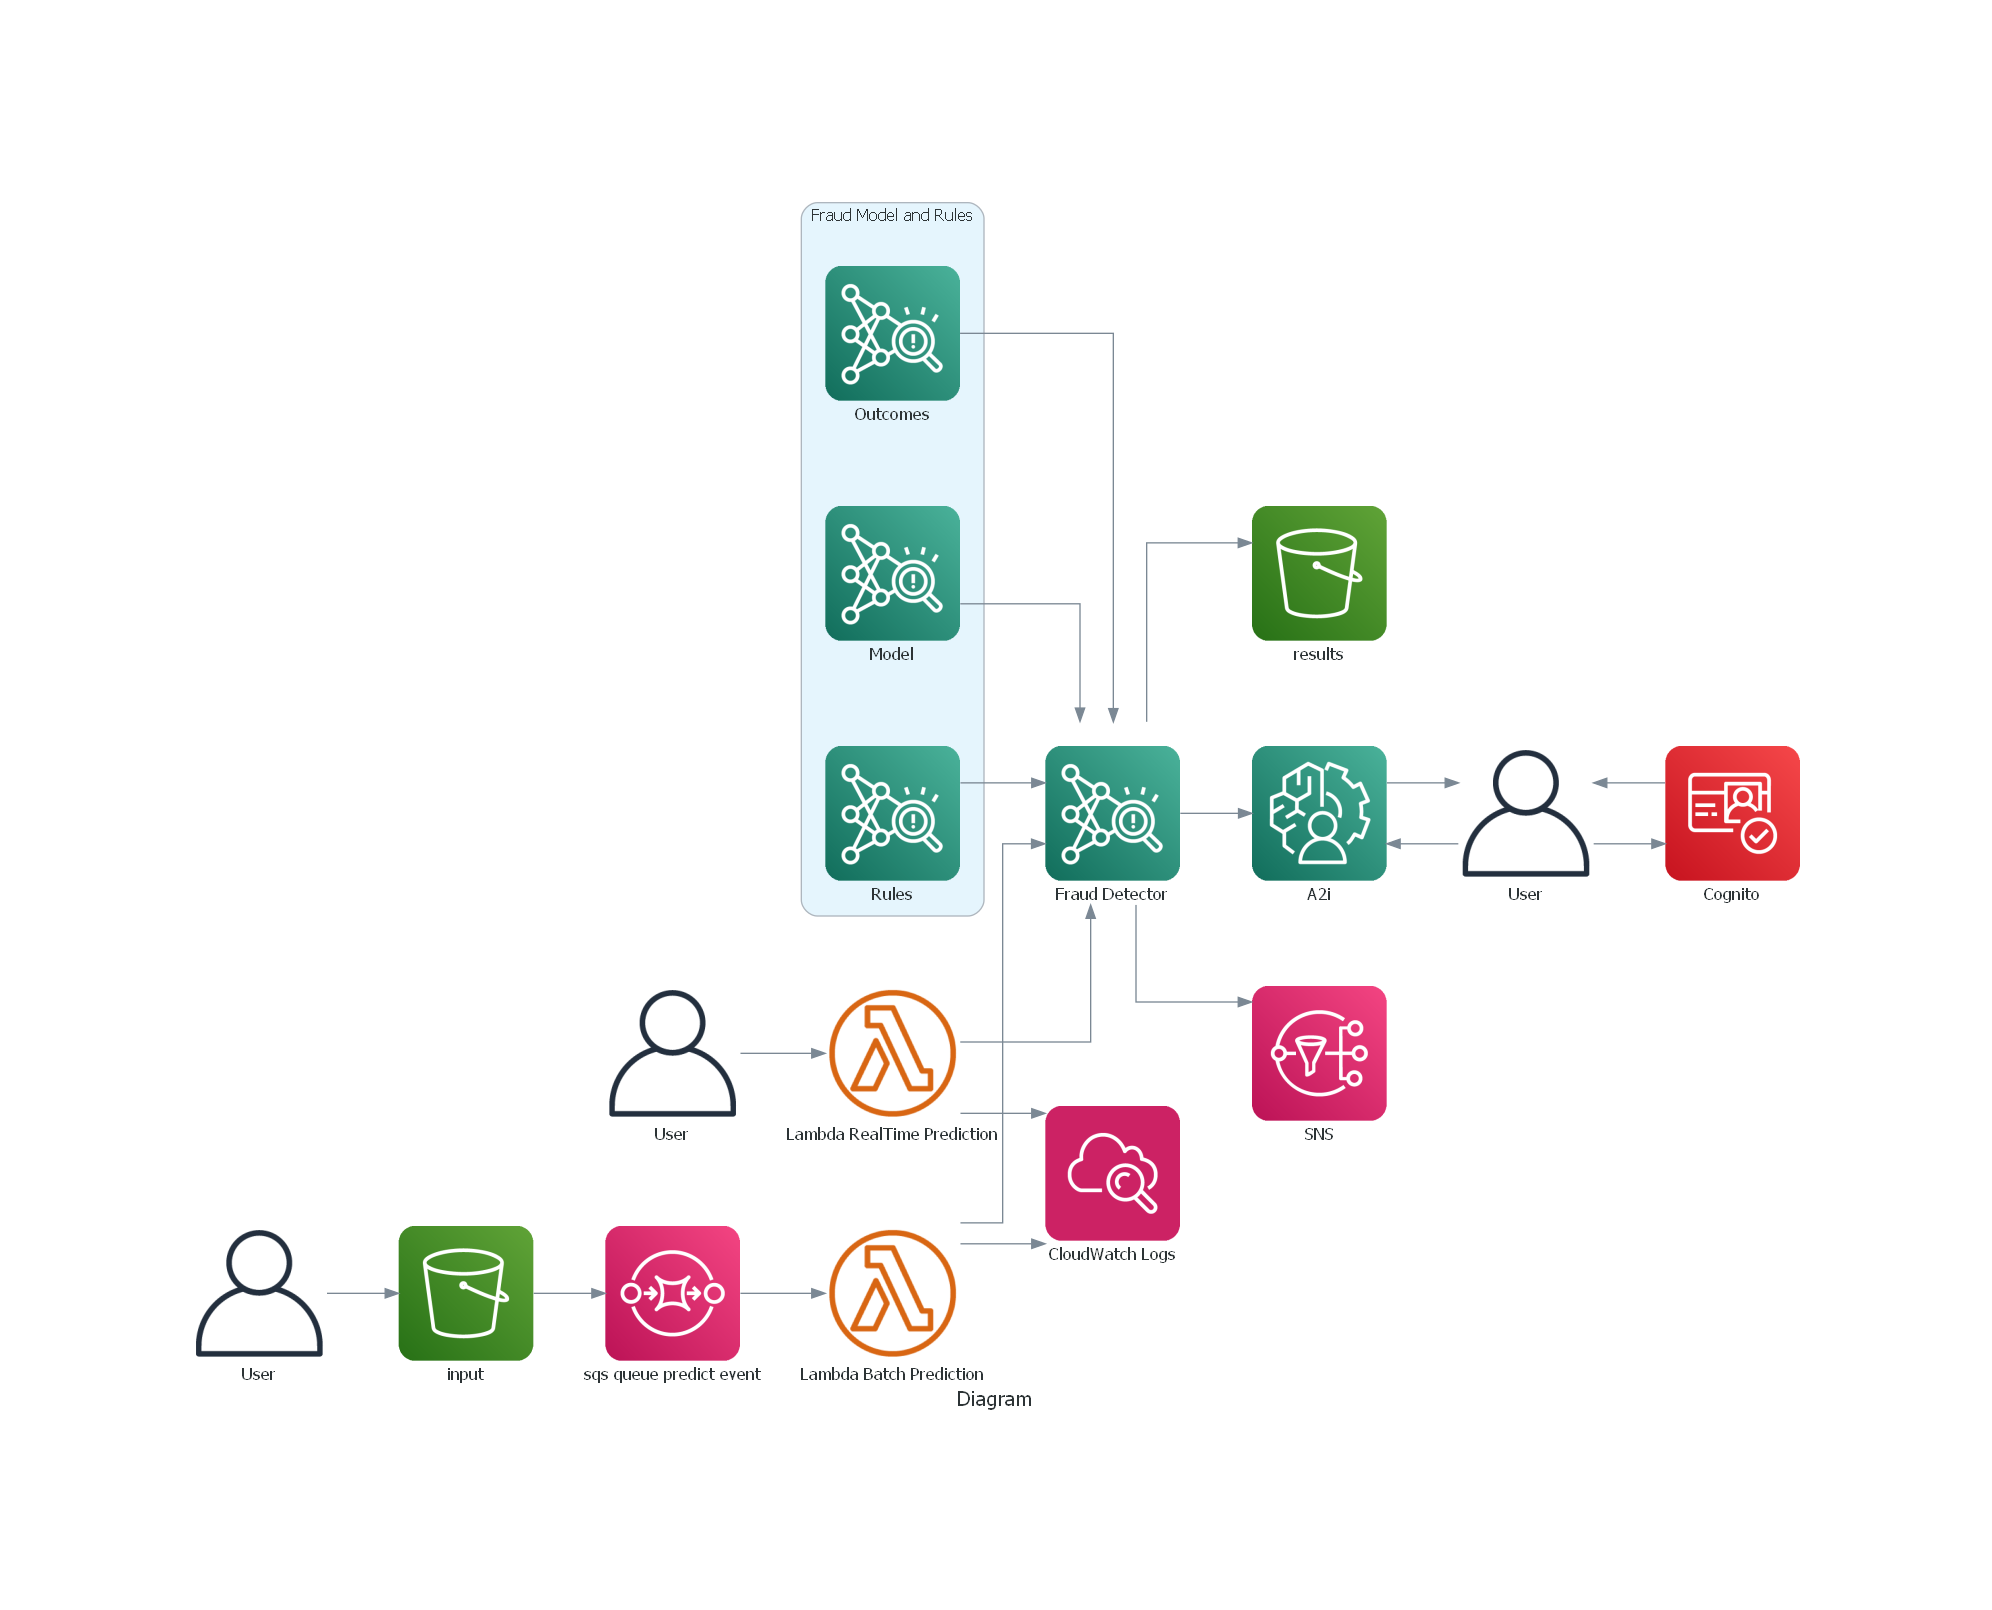
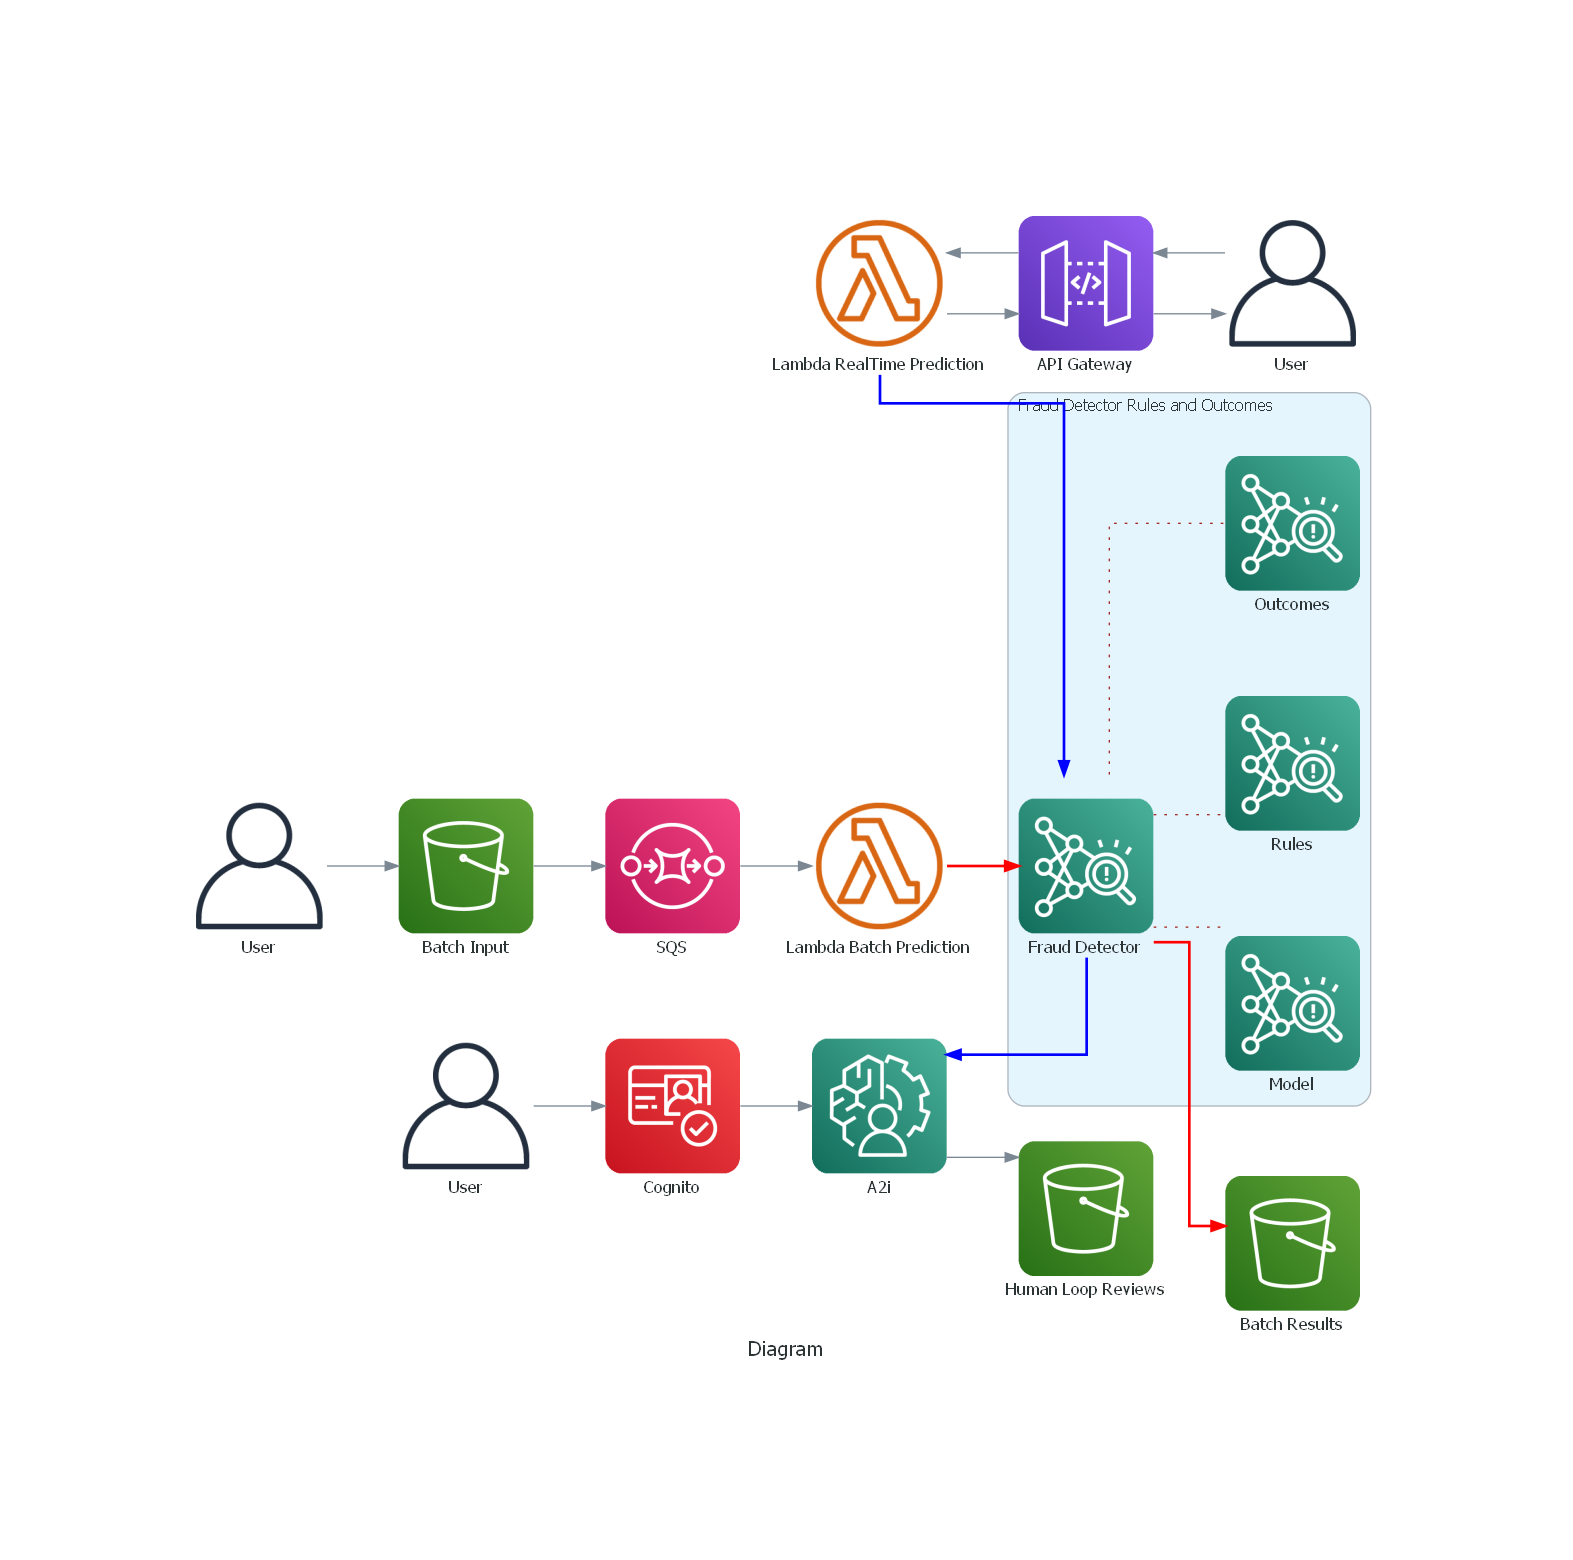
api gateway and lambda predict fixes

diff --git a/augmented_ai/fraud/constants.py b/augmented_ai/fraud/constants.py
@@ -10,16 +10,24 @@ fraud_template = """<script src="https://assets.crowd.aws/crowd-html-elements.js
           header="Select the most relevant category"
       >
       <classification-target>
-        <h3><strong>Risk Score (out of 1000): </strong><span style="color: #ff9900;">{{ task.input.score.sample_fraud_detection_insightscore }}</span></h3>
+        <h3><strong>Risk Score (out of 1000): </strong><span style="color: #ff9900;">{{ task.input.score.fraud_model_insightscore }}</span></h3>
         <hr>
         <h3> Claim Details </h3>
-        <p style="padding-left: 50px;"><strong>Email Address   :  </strong>{{ task.input.taskObject.email_address }}</p>
-        <p style="padding-left: 50px;"><strong>Billing Address :  </strong>{{ task.input.taskObject.billing_address }}</p>
-        <p style="padding-left: 50px;"><strong>Billing State   :  </strong>{{ task.input.taskObject.billing_state }}</p>
-        <p style="padding-left: 50px;"><strong>Billing Zip     :  </strong>{{ task.input.taskObject.billing_postal }}</p>
-        <p style="padding-left: 50px;"><strong>Originating IP  :  </strong>{{ task.input.taskObject.ip_address }}</p>
-        <p style="padding-left: 50px;"><strong>Phone Number    :  </strong>{{ task.input.taskObject.phone_number }}</p>
-        <p style="padding-left: 50px;"><strong>User Agent      :  </strong>{{ task.input.taskObject.user_agent }}</p>
+        <p style="padding-left: 50px;"><strong>Timestamp       :  </strong>{{ task.input.taskObject.EVENT_TIMESTAMP }}</p>
+        <p style="padding-left: 50px;"><strong>Transaction No. :  </strong>{{ task.input.taskObject.variables.trans_num }}</p>
+        <p style="padding-left: 50px;"><strong>Amount          :  </strong>{{ task.input.taskObject.variables.amt }}</p>
+        <p style="padding-left: 50px;"><strong>Zip Code        :  </strong>{{ task.input.taskObject.variables.zip }}</p>
+        <p style="padding-left: 50px;"><strong>City            :  </strong>{{ task.input.taskObject.variables.city }}</p>
+        <p style="padding-left: 50px;"><strong>First Name      :  </strong>{{ task.input.taskObject.variables.first }}</p>
+        <p style="padding-left: 50px;"><strong>Job Title       :  </strong>{{ task.input.taskObject.variables.job }}</p>
+        <p style="padding-left: 50px;"><strong>Street          :  </strong>{{ task.input.taskObject.variables.street }}</p>
+        <p style="padding-left: 50px;"><strong>Category        :  </strong>{{ task.input.taskObject.variables.category }}</p>
+        <p style="padding-left: 50px;"><strong>City Population :  </strong>{{ task.input.taskObject.variables.city_pop }}</p>
+        <p style="padding-left: 50px;"><strong>Gender          :  </strong>{{ task.input.taskObject.variables.gender }}</p>
+        <p style="padding-left: 50px;"><strong>Credit Card No. :  </strong>{{ task.input.taskObject.variables.cc_num }}</p>
+        <p style="padding-left: 50px;"><strong>Last Name       :  </strong>{{ task.input.taskObject.variables.last }}</p>
+        <p style="padding-left: 50px;"><strong>State           :  </strong>{{ task.input.taskObject.variables.state }}</p>
+        <p style="padding-left: 50px;"><strong>Merchant        :  </strong>{{ task.input.taskObject.variables.merchant }}</p>
       </classification-target>
 
       <full-instructions header="Claim Verification instructions">

diff --git a/projects/fraud/predictions.py b/projects/fraud/predictions.py
@@ -50,9 +50,10 @@ def real_time_predictions(
     variables = payload["variables"]
     timestamp = payload["EVENT_TIMESTAMP"]
     event_id = payload["variables"]["trans_num"]
+    flow_definition = payload['flow_definition']
     entity_id = "unknown"
     entity_type = "customer"
-    response = fraudDetector.get_event_prediction(
+    prediction_response = fraudDetector.get_event_prediction(
         detectorId=detector_name,
         eventId=event_id,
         detectorVersionId=detector_version,
@@ -61,7 +62,24 @@ def real_time_predictions(
         entities=[{"entityType": entity_type, "entityId": entity_id}],
         eventVariables=variables,
     )
-    return response
+    if flow_definition != "ignore":
+        FraudScore = prediction_response["modelScores"][0]["scores"][
+            "fraud_model_insightscore"
+        ]
+        if SCORE_THRESHOLD_MIN <= FraudScore <= SCORE_THRESHOLD_MAX:
+            # Create the human loop input JSON object
+            logger.info(
+                f"fraud score {FraudScore} between range thresholds {SCORE_THRESHOLD_MAX} and {SCORE_THRESHOLD_MIN}"
+            )
+            human_loop_input = {
+                "score": prediction_response["modelScores"][0]["scores"],
+                "taskObject": payload,
+            }
+            logger.info(f"Started human loop: {humanLoopName}")
+            augai_response = start_human_loop(human_loop_input, flow_definition)
+            print("")
+            print(augai_response)
+    return prediction_response
 
 
 def batch_predictions(
@@ -128,12 +146,6 @@ def batch_predictions(
 @click.option(
     "--role", "--option", default="FraudDetectorRoleS3Access", help="name of role"
 )
-@click.option(
-    "--flow_definition",
-    "--option",
-    default="",
-    help="set flow definition name if you want to send results for review to augmented ai",
-)
 def main(
     predictions,
     s3input,
@@ -143,7 +155,6 @@ def main(
     detector_name,
     role,
     detector_version,
-    flow_definition,
 ):
     if predictions == "batch":
         logger.info("running batch prediction job")
@@ -177,23 +188,6 @@ def main(
         )
         print("")
         print(json.dumps(response["modelScores"], default=str, indent=4))
-        if flow_definition:
-            FraudScore = response["modelScores"][0]["scores"][
-                "fraud_model_insightscore"
-            ]
-            if SCORE_THRESHOLD_MIN <= FraudScore <= SCORE_THRESHOLD_MAX:
-                # Create the human loop input JSON object
-                logger.info(
-                    f"fraud score {FraudScore} between range thresholds {SCORE_THRESHOLD_MAX} and {SCORE_THRESHOLD_MIN}"
-                )
-                human_loop_input = {
-                    "score": response["modelScores"][0]["scores"],
-                    "taskObject": payload,
-                }
-                logger.info(f"Started human loop: {humanLoopName}")
-                response = start_human_loop(human_loop_input, flow_definition)
-                print("")
-                print(response)
         return response
 
 

diff --git a/screenshots/aws_diagrams/fraud_predict.py b/screenshots/aws_diagrams/fraud_predict.py
@@ -1,40 +1,39 @@
-from diagrams import Diagram, Cluster
+from diagrams import Diagram, Cluster, Edge
 from diagrams.aws.compute import LambdaFunction
 from diagrams.aws.storage import SimpleStorageServiceS3
 from diagrams.aws.ml import FraudDetector, AugmentedAi
-from diagrams.aws.integration import SQS, SNS
+from diagrams.aws.integration import SQS
 from diagrams.aws.security import Cognito
-from diagrams.aws.management import Cloudwatch
 from diagrams.aws.general import User
+from diagrams.aws.network import APIGateway
 
 with Diagram("Diagram", show=True):
     Lambda_Batch = LambdaFunction("Lambda Batch Prediction")
     Lambda_RealTime = LambdaFunction("Lambda RealTime Prediction")
+    APIGateway = APIGateway("API Gateway")
     S31 = SimpleStorageServiceS3("Batch Input")
     S32 = SimpleStorageServiceS3("Batch Results")
+    S33 = SimpleStorageServiceS3("Human Loop Reviews")
     AugAi = AugmentedAi("A2i")
     User1 = User("User")
     User2 = User("User")
     User3 = User("User")
     SQS_predict = SQS("SQS")
-    SNS = SNS("SNS")
     Cognito = Cognito("Cognito")
-    Fraud_Detector = FraudDetector("Fraud Detector")
-    CloudWatch = Cloudwatch("CloudWatch Logs")
 
-    with Cluster("Fraud Model and Rules"):
+    with Cluster("Fraud Detector Rules and Outcomes"):
         fraud_detector_input = [
             FraudDetector("Model"),
             FraudDetector("Rules"),
             FraudDetector("Outcomes"),
         ]
+        Fraud_Detector = FraudDetector("Fraud Detector")
+        Fraud_Detector - Edge(color="brown", style="dotted") - fraud_detector_input
 
-    fraud_detector_input >> Fraud_Detector
-    Lambda_Batch >> CloudWatch
-    Lambda_RealTime >> CloudWatch
-    User1 >> S31 >> SQS_predict >> Lambda_Batch >> Fraud_Detector >> SNS
-    Fraud_Detector >> S32
-    User2 >> Lambda_RealTime >> Fraud_Detector >> AugAi >> User3
-    User3 >> AugAi
-    User3 >> Cognito
-    Cognito >> User3
+    User1 >> S31 >> SQS_predict >> Lambda_Batch >> Edge(color="red", style="bold") >> Fraud_Detector
+    Fraud_Detector >> Edge(color="red", style="bold") >> S32
+    User2 >> APIGateway >> Lambda_RealTime >> Edge(color="blue", style="bold") >> Fraud_Detector
+    AugAi << Edge(color="blue", style="bold") << Fraud_Detector
+    Lambda_RealTime >> APIGateway >> User2
+    User3 >> Cognito >> AugAi
+    AugAi >> S33

diff --git a/projects/fraud/README.md b/projects/fraud/README.md
@@ -224,16 +224,90 @@ To trigger Fraud Detector Predictions via AWS Lambda
 Copy the batch sample file delivered in the  glue_transformed folder (following successful glue job run) to batch_predict folder.
 This will trigger notification to SQS queue which has Lambda function containing the code to run the batch and realtime predictions
 as target. 
-The code in the lambda is adapted compared to the local mode python scripts to check the event payload since we cannot 
-pass custom cli arguments when invoking lambdas. If the event source  is sqs, it will run a batch prediction job. 
-To run realtime  prediction, the function must be invoked by the end user  passing the payload (similar to structure 
-defined in  payload.json/payload2.json in datasets/dataset1 folder ). The code  will then check that it contains a 
-variables key to run realtime prediction api call. 
 
 ```
 $ aws s3 cp s3://fraud-sample-data/glue_transformed/test/fraudTest.csv s3://fraud-sample-data/batch_predict/fraudTest.csv
 copy: s3://fraud-sample-data/glue_transformed/test/fraudTest.csv to s3://fraud-sample-data/batch_predict/fraudTest.csv
 ```
+
+The code in the lambda is adapted compared to the local mode python scripts to check the event payload since we cannot 
+pass custom cli arguments when invoking lambdas. If the event payload has 'Records' key, it indicates the event is coming from
+SQS and will run a batch prediction job. If the payload has 'variables' key, it will run realtime prediction.
+To run realtime  prediction, API gateway REST API has been configured to accept query string parameters and send the request to lambda.
+
+To create the API gateway 
+
+1. Open the API Gateway console, and then choose your API.
+2. Select CreateAPI and select the type as RestAPI
+3. Protocol: REST, Create New API and choose a name and optional description
+4. Select the API resource just created and select Create Method from the Resource Actions. Select Get
+5. In the Get-Setup, select Integration Type: lambda function and lambda function name 'PredictFraudModel'. Click save.
+6. In the Method Execution pane, choose Method Request.
+7. In settings, use Authorization: 'AWS IAM' and Request Validator: 'Validate query string parameters and headers'
+8. Expand the URL Query String Parameters dropdown, then choose Add query string.
+9. Enter the following variables one by one as a separate name field. Mark all as required except for 'flow_definition' variable
+
+```
+ amt, category, cc_num, city, city_pop, event_timestamp, first, flow_definition, gender, job, last, merchant, state, street, trans_num, zip
+```
+
+10 back to the Method Execution pane.
+11. Choose Integration Request.
+12. Choose the Mapping Templates dropdown and then choose Add mapping template.
+13. For the Content-Type field, enter application/json and then choose the check mark icon.
+14. In the pop-up that appears, choose Yes, secure this integration.
+15. For Request body passthrough, choose When there are no templates defined (recommended).
+16. In the mapping template editor, copy and replace the existing script with the following code:
+
+```
+#if("$input.params('flow_definition')" != "")
+#set( $my_default_value = "$input.params('flow_definition')")
+#else
+#set ($my_default_value = "ignore")
+#end
+
+
+{
+  "variables": {
+        "trans_num":"$input.params('trans_num')",
+        "amt":"$input.params('amt')",
+        "zip":"$input.params('zip')",
+        "city":"$input.params('city')",
+        "first":"$input.params('first')",
+        "job":"$input.params('job')",
+        "street":"$input.params('street')",
+        "category":"$input.params('category')",
+        "city_pop":"$input.params('city_pop')",
+        "gender":"$input.params('gender')",
+        "cc_num":"$input.params('cc_num')",
+        "last":"$input.params('last')",
+        "state":"$input.params('state')",
+        "merchant":"$input.params('merchant')"
+  },
+  "EVENT_TIMESTAMP":"$input.params('event_timestamp')",
+  "flow_definition":"$my_default_value"
+}
+```
+17. Choose Save, and go back to MethodExecution pane. Click on Test
+18. In the Query Strings box paste the following
+
+```
+trans_num=6cee353a9d618adfbb12ecad9d427244&amt=245.97&zip=97383&city=Stayton&first=Erica&job=Engineer, biomedical&street=213 Girll Expressway&category=shopping_pos&city_pop=116001&gender=F&cc_num=180046165512893&last=Walker&state=OR&merchant=fraud_Macejkovic-Lesch&event_timestamp=2020-10-13T09:21:53.000Z&flow_definition=arn:aws:sagemaker:us-east-1:376337229415:flow-definition/fraud-detector-a2i-1656277295743
+```
+
+If successful you should see the response and logs as in screenshot below. You can also navigate to CloudWatch log stream group for Lambda invocation and check it has run successfully.
+
+
+
+
+
+We can then proceed to deploying the API. Go back to Resources -> Actions and Deploy API. Select Deployment Stage 'New Stage' and choose name as 'dev'.
+You should see the API endpoint to invoke on the console (screenshot below)
+
+
+To test the API's new endpoint, run the following curl command. Make sure that the curl command has the query string parameters at the end as below ('key=value' format and separated by &)
+
+
 
 #### Augmented AI for reviews 
 
@@ -251,6 +325,7 @@ https://docs.aws.amazon.com/sagemaker/latest/dg/a2i-custom-templates.html
 The script also uses the `Create Flow Definition` API to create a workflow definition. 
 
 ```
+$ export PYTHONPATH=.
 $ python augmented_ai/fraud/create_workflow.py --workteam_arn <workforce-arn>
 Created human task ui with Arn: .......human-task-ui/fraud9079296d-f592-11ec-92fc-50ebf6424219
 Created flow definition with Arn: ..........flow-definition/fraud-detector-a2i-1656277037953
